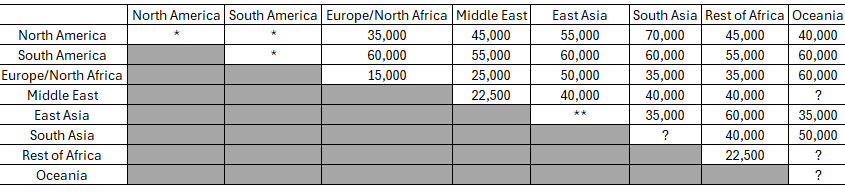
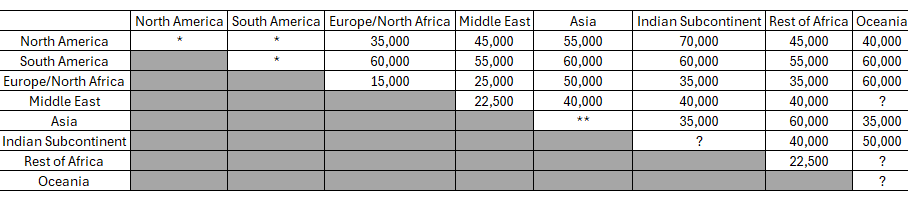
delta hidden award article final edits

diff --git a/Articles/Deltas_Hidden_Award_Chart/index.html b/Articles/Deltas_Hidden_Award_Chart/index.html
@@ -72,16 +72,18 @@
                 <p>
                     Everyone always talks about how much value you can get by redeeming Delta SkyMiles abroad.
                     However, today, I will be sharing exactly how many miles you need and where you can go
-                    to maximize your Delta SkyMiles. However, this is my first rough attempt so please email me
-                    with any questions or comments if there is something that isn't explained well. I am still
-                    working on adding a comment section and that will be coming out soon.
+                    to maximize your Delta SkyMiles. However, this is my first rough attempt so please email me at
+                    worldlyexpressmail@gmail.com with any questions, comments or concerns if there is something that
+                    isn't explained well. I am still working on adding a comment section and that will be coming out
+                    soon.
                 </p>
 
                 <h2 id="economyac">Economy Award Chart</h2>
                 <p>
                     Now lets get right to it! Here is the one way economy award chart for non US and Canada flights.
                     Please note that Aerolineas Argentinas, Air Europa, China Eastern and Kenya Airways all seem to
-                    not release award availability to Delta.
+                    not release award availability to Delta. This limits the ability to check SkyTeam intra Africa,
+                    intra China, and intra South American awards.
                 </p>
                 <img src="/assets/Other Articles/Delta Non-USCanada AC/overall_y_ac.png">
                 <p>
@@ -91,15 +93,15 @@
                         ** Intra Asia flights are further classified into zones<br><br>
                     </i>
                     To me, a couple zones stand out. Europe to South Asia at 35,000 SkyMiles, Intra Africa for 22,500
-                    SkyMiles, and East Asia to Australia for 35,0000 SkyMiles. However, the economy award chart is not
-                    really competive as where things stand, especially for Intra Africa flights, where prices are high,
-                    there isn't much award availability. This is due to Kenya Airways not releasing award availability
-                    to Delta as far as I found.
+                    SkyMiles, and East Asia to Australia for 35,0000 SkyMiles. However, I don't feel that the economy
+                    award chart is really competive as where things stand. This is exacerbated by the fact that for
+                    Intra Africa flights, where prices tend to be high, the Kenya Airways isn't releasing award
+                    availibilty.
                 </p>
 
                 <h2 id="businessac">Business Award Chart</h2>
                 <p>
-                    As usual, the chances of getting outsized value are higher with business class award charts.
+                    As usual, the opportunity to get outsized value are higher with business class award charts.
                 </p>
                 <img src="/assets/Other Articles/Delta Non-USCanada AC/overall_j_ac.png">
                 <p>
@@ -118,7 +120,8 @@
                     a part of each zone. The parenthesis signal what zone these countries are in in the overall
                     award chart.<br><br>
 
-                    <b>North America: </b>Mexico<br><br>
+                    <b>North America: </b>Mexico, (excluding United States and Canada because of dynamic
+                    pricing)<br><br>
 
                     <b>Caribbean (North America): </b>Anguilla, Antigua & Barbuda, Aruba, Bahamas, Barbados, Bermuda,
                     Bonaire, British Virgin Islands, Cayman Islands, Curacao, Dominica, Dominican Republic, Grenada,
@@ -134,29 +137,28 @@
                     Peru, Uruguay, Venezuela<br><br>
 
                     <b>Europe/North Africa: </b>Albania, Algeria, Armenia, Austria, Belgium, Bulgaria, Canary Islands,
-                    Croatia, Cyprus, Czech Republic, Denmark, *Egypt, Estonia, Finland, France, Georgia, Germany,
+                    Croatia, Cyprus, Czech Republic, Denmark, Estonia, Finland, France, Georgia, Germany,
                     Gibraltar, Greece, Hungary, Iceland, Ireland, Italy, Latvia, Lithuania, Luxembourg, Macedonia,
                     Malta, Moldova, Montenegro, Morocco, Netherlands, Norway, Poland, Portugal, Romania, Russia, Serbia,
                     Slovenia, Spain, Sweden, Switzerland, Tunisia, Turkey, Ukraine, United Kingdom <br><br>
 
-                    <b>Middle East: </b>Bahrain, *Egypt, Iraq, Israel, Jordan, Kuwait, Lebanon, Oman, Qatar, Saudi
+                    <b>Middle East: </b>Bahrain, Egypt, Iraq, Israel, Jordan, Kuwait, Lebanon, Oman, Qatar, Saudi
                     Arabia, United Arab Emirates<br><br>
 
-                    <b>East Asia: </b>China, Guam, Hong Kong, Japan, Korea, Palau, Philippines, Taiwan<br><br>
+                    <b>East Asia (Asia): </b>China, Guam, Hong Kong, Japan, Korea, Palau, Philippines, Taiwan<br><br>
 
-                    <b>Southeast Asia(East Asia): </b>Brunei, Cambodia, Indonesia, Macau, Malaysia, Myanmar, Papua New
+                    <b>Southeast Asia (Asia): </b>Brunei, Cambodia, Indonesia, Macau, Malaysia, Myanmar, Papua New
                     Guinea, Singapore, Thailand, Vietnam<br><br>
 
-                    <b>South Asia: </b>Bangladesh, India, Kazakhstan, Maldives, Nepal, Pakistan, Sri Lanka,
+                    <b>Indian Subcontinent: </b>Bangladesh, India, Maldives, Nepal, Pakistan, Sri Lanka,
                     Turkmenistan, Uzbekistan<br><br>
 
-                    <b>Rest of Africa:</b>Angola, Botswana, Djibouti, Equatorial Guinea, Ethiopia, Ghana,
-                    Kenya, Mauritius, Melilla, Mozambique, Namibia, Nigeria, Rwanda, Senegal, Seychelles, South Africa,
-                    Sudan, Tanzania, Uganda, Zambia, Zimbabwe<br><br>
+                    <b>Rest of Africa: </b>Angola, Benin, Chad, Central African Republic, Djibouti, Equatorial Guinea,
+                    Ethiopia, Ghana, Ivory Coast, Kenya, Madagasar, Mauritania, Mauritius, Melilla, Mozambique, Niger,
+                    Nigeria, Rwanda, Senegal, Seychelles, South Sudan, South Africa, Tanzania, Togo, Uganda, Zambia,
+                    Zimbabwe<br><br>
 
                     <b>Oceania: </b>Australia, Fiji, New Zealand
-
-
 
                 </p>
 
@@ -168,11 +170,6 @@
                     <li>
                         Air France, KLM, and Tarom intra Europe economy awards cost 10,000 SkyMiles instead of
                         15,000 SkyMiles.
-                    </li>
-                    <li>
-                        Egypt switches zones depending on the other destination. Egypt will classify under
-                        the Middle East if the flight is departing or arriving in Europe. However, if the flight
-                        is departing or arriving in the middle east, Egypt will classify as part of North Africa/Europe.
                     </li>
                     <li>
                         For intra Europe zone, flights departing and arriving in the same country would cost double the
@@ -190,25 +187,19 @@
                 </p>
                 <h3 id="americas--latam">LATAM</h3>
                 <p>
-                    For flights within South America, Latam awards from Delta follow a distance based award chart. These
-                    awards also cost by per segment, this means that a layover flight would be the sum of the cost for
+                    For flights within South America, LATAM awards from Delta follow a distance based award chart. These
+                    awards also price by each segment, meaning that a layover flight would be the sum of the cost for
                     each individual legs, not pricing the total distance traveled. <br><br>
 
-                    However, for flights out of South America, aka the last 3 rows of the chart, they follow the typical
-                    zone based award chart. The layover rules below will apply.
+                    However, for flights out of South America, aka the last 3 rows of the chart, the typical
+                    zone based award chart applies. The layover rules below will apply.
                 </p>
                 <img src="/assets/Other Articles/Delta Non-USCanada AC/latam_ac.png">
-                <p>
-                    If you have a lot of SkyMiles, this would be a pretty good use case. However, there are more
-                    competive
-                    programs for awards on LATAM.
-                </p>
 
                 <h3 id="americas--aeromexico">Aeromexico</h3>
                 <p>
                     Flights on Aeromexico follow a zone based award chart. I personally don't think there is any
-                    exceptional opportunity here, given the short distance this award chart covers from Mexico. There
-                    are better opportunities using Virgin Atlantic Miles instead.
+                    exceptional opportunity here, given the short distance this award chart covers from Mexico.
                 </p>
                 <img src="/assets/Other Articles/Delta Non-USCanada AC/aeromexico_ac.png">
 
@@ -227,7 +218,8 @@
 
                 <h3 id="americas--hawaiian">Hawaiian Airlines</h3>
                 <p>
-                    Hawaiian Airlines awards cost 7,500 SkyMiles for economy flight within the Hawaiian islands.
+                    Hawaiian Airlines awards cost 7,500 SkyMiles for economy flight within the Hawaiian islands. This
+                    option might disappear once Hawaiian Airlines fully merge with Alaska Airlines.
                 </p>
 
                 <h2 id="asia">Intra Asia Award Chart</h2>
@@ -245,15 +237,13 @@
                 <p>
                     Now, it wouldn't be like Delta to not have exceptions here either. Korean Air has a special
                     rate for intra Korea and between Korea and Japan flights. Again, this could be an interesting
-                    way to try out Korean Air business class for very few SkyMiles.
+                    way to try out short haul Korean Air business class for very few SkyMiles.
                 </p>
                 <img src="/assets/Other Articles/Delta Non-USCanada AC/korean_ac.png">
 
                 <h3 id="asia--vietnam">Vietnam Airlines</h3>
                 <p>
                     Flights within Vietnam will cost 12,500 SkyMiles in economy and 20,000 SkyMiles in business.
-                    For the amount of distance that Vietnam covers, programs like Virgin Atlantic could be a
-                    better choice.
                 </p>
 
 
